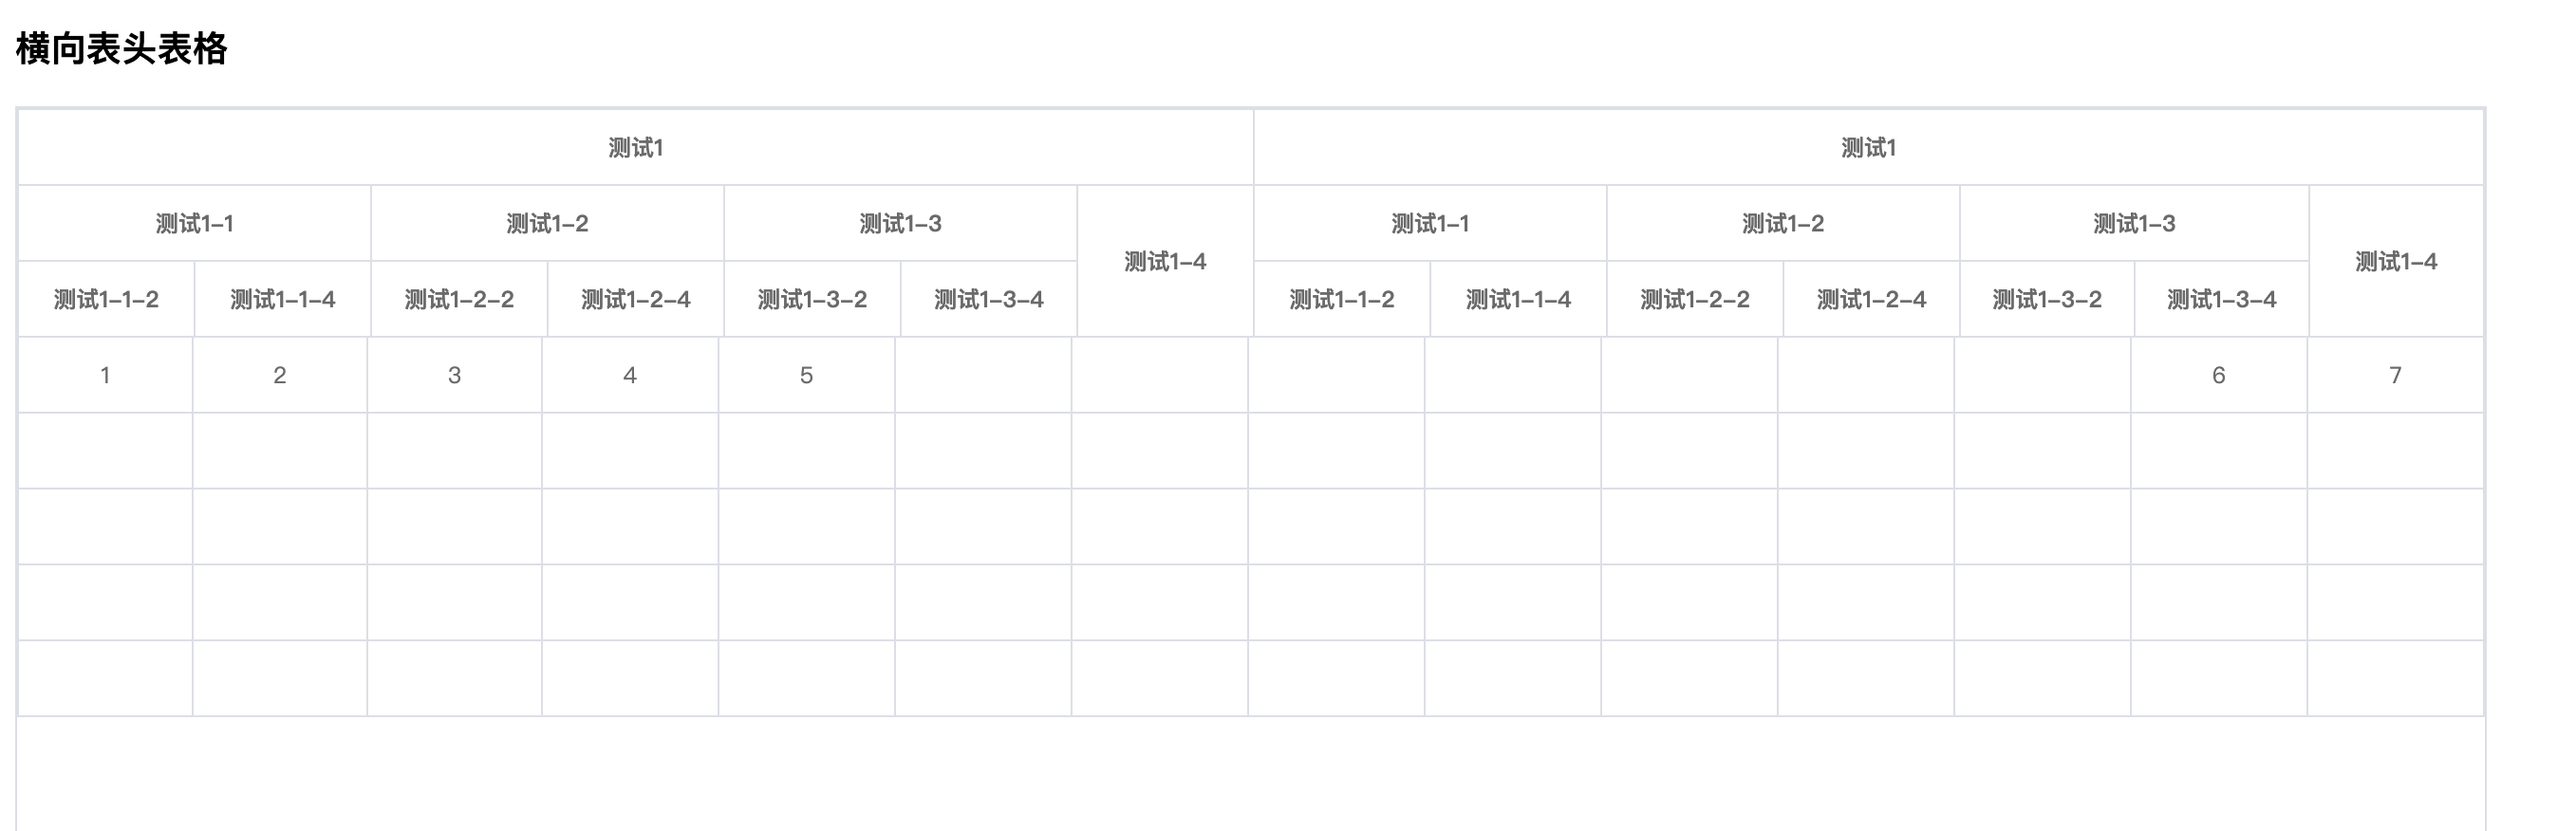
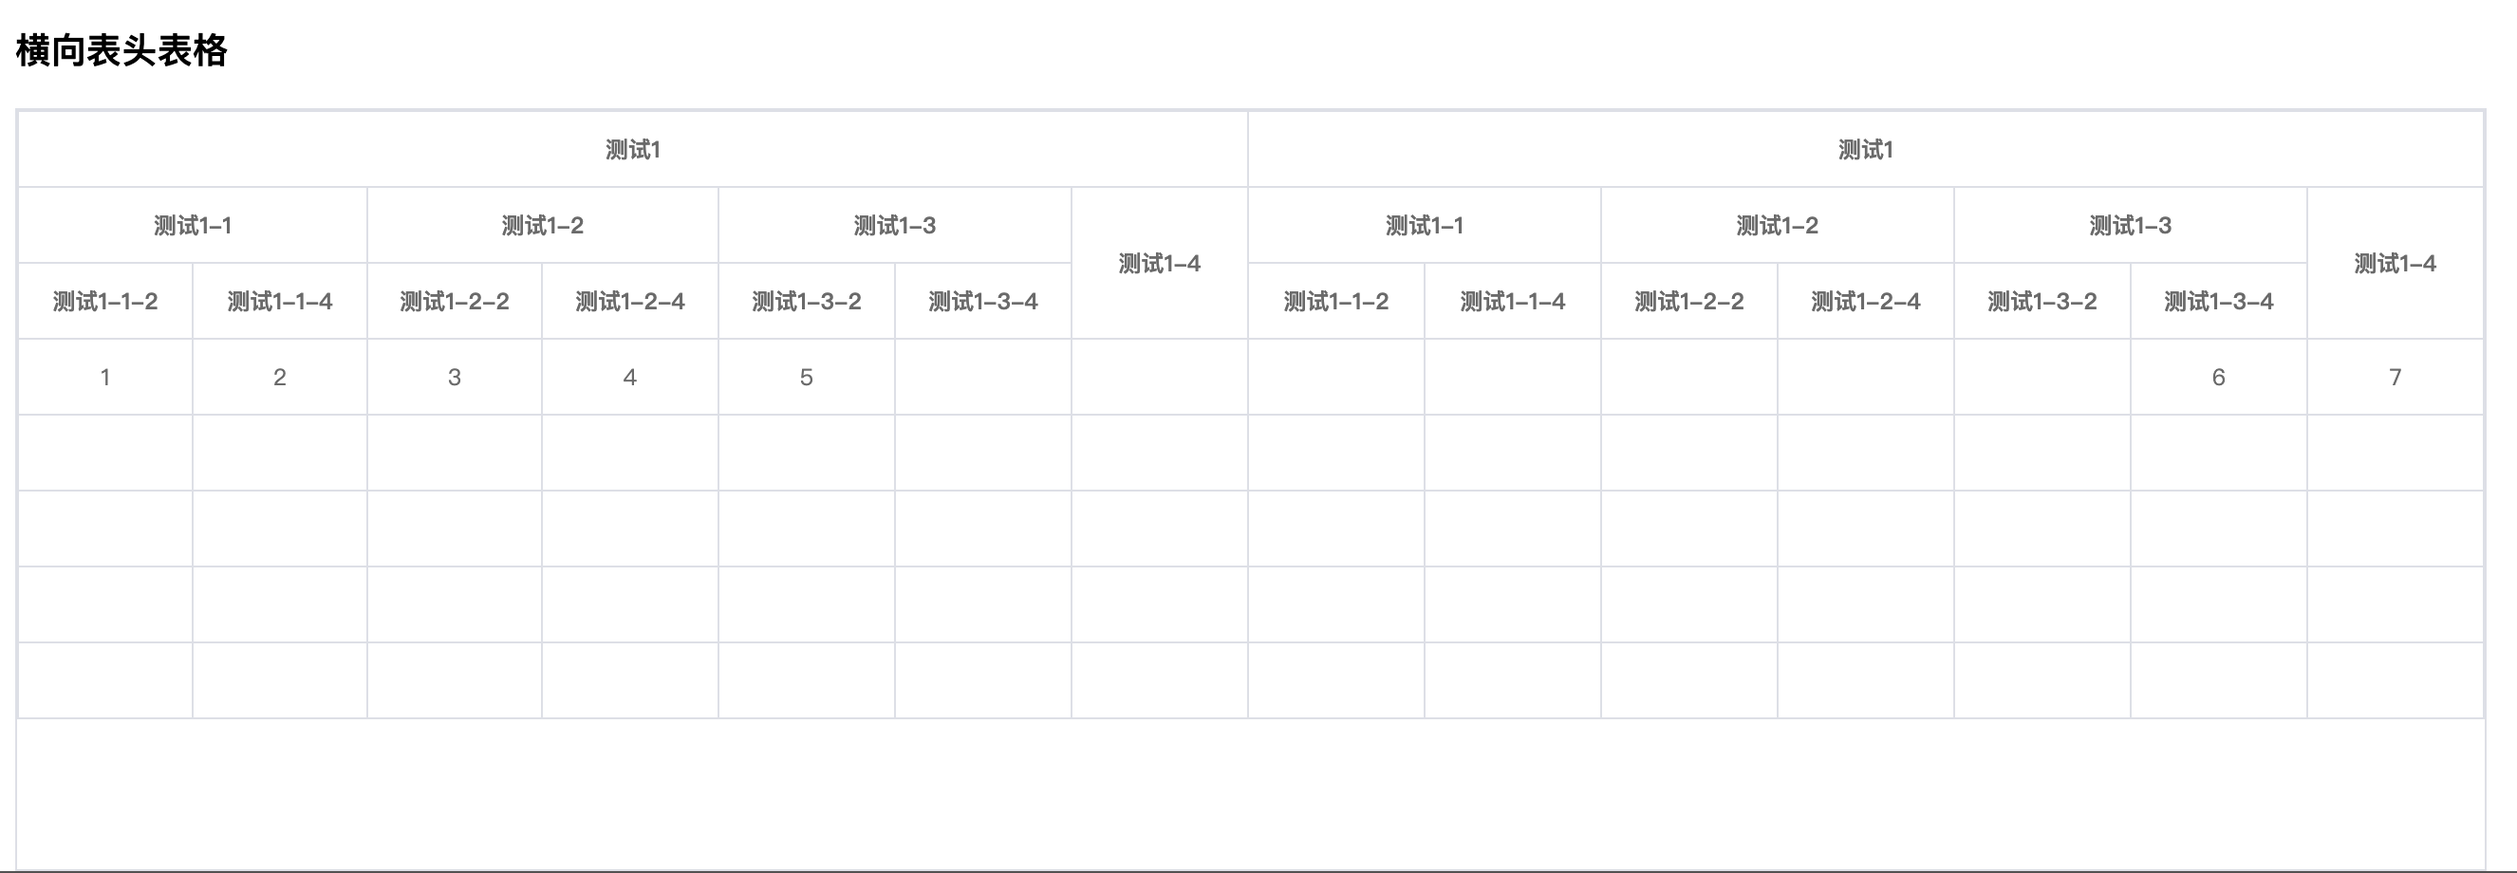
moreTreeTable 解决错位问题

diff --git a/src/components/MoreTreeTable.vue b/src/components/MoreTreeTable.vue
@@ -391,7 +391,7 @@ export default {
       return {
         position: "absolute",
         left: -this.scrollX + this.colheadWidth + "px",
-        width: this.actualWidth1 + "px",
+        width: this.colHead.length > 0 ? this.actualWidth1 - 2 + "px" : "",
         minWidth: `calc(100% - ${this.colheadWidth}px)`,
         zIndex: 10,
         top: 0
